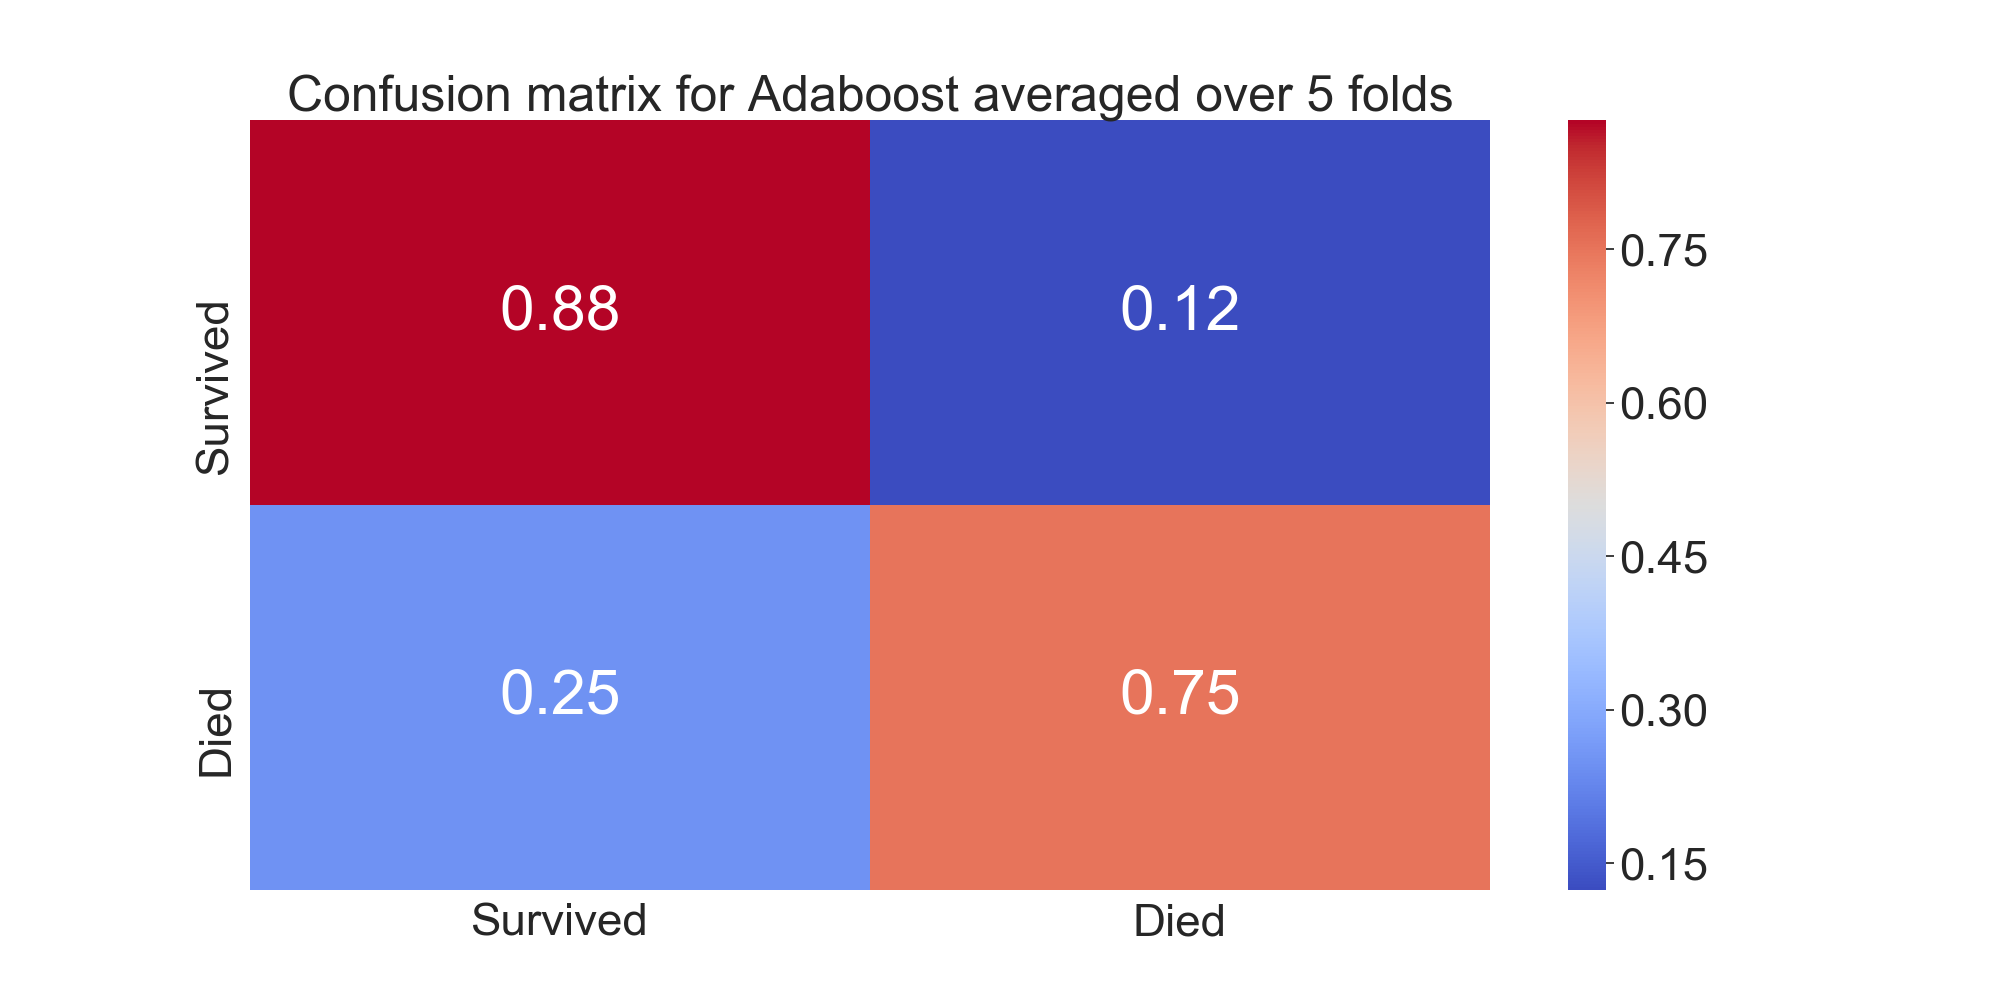
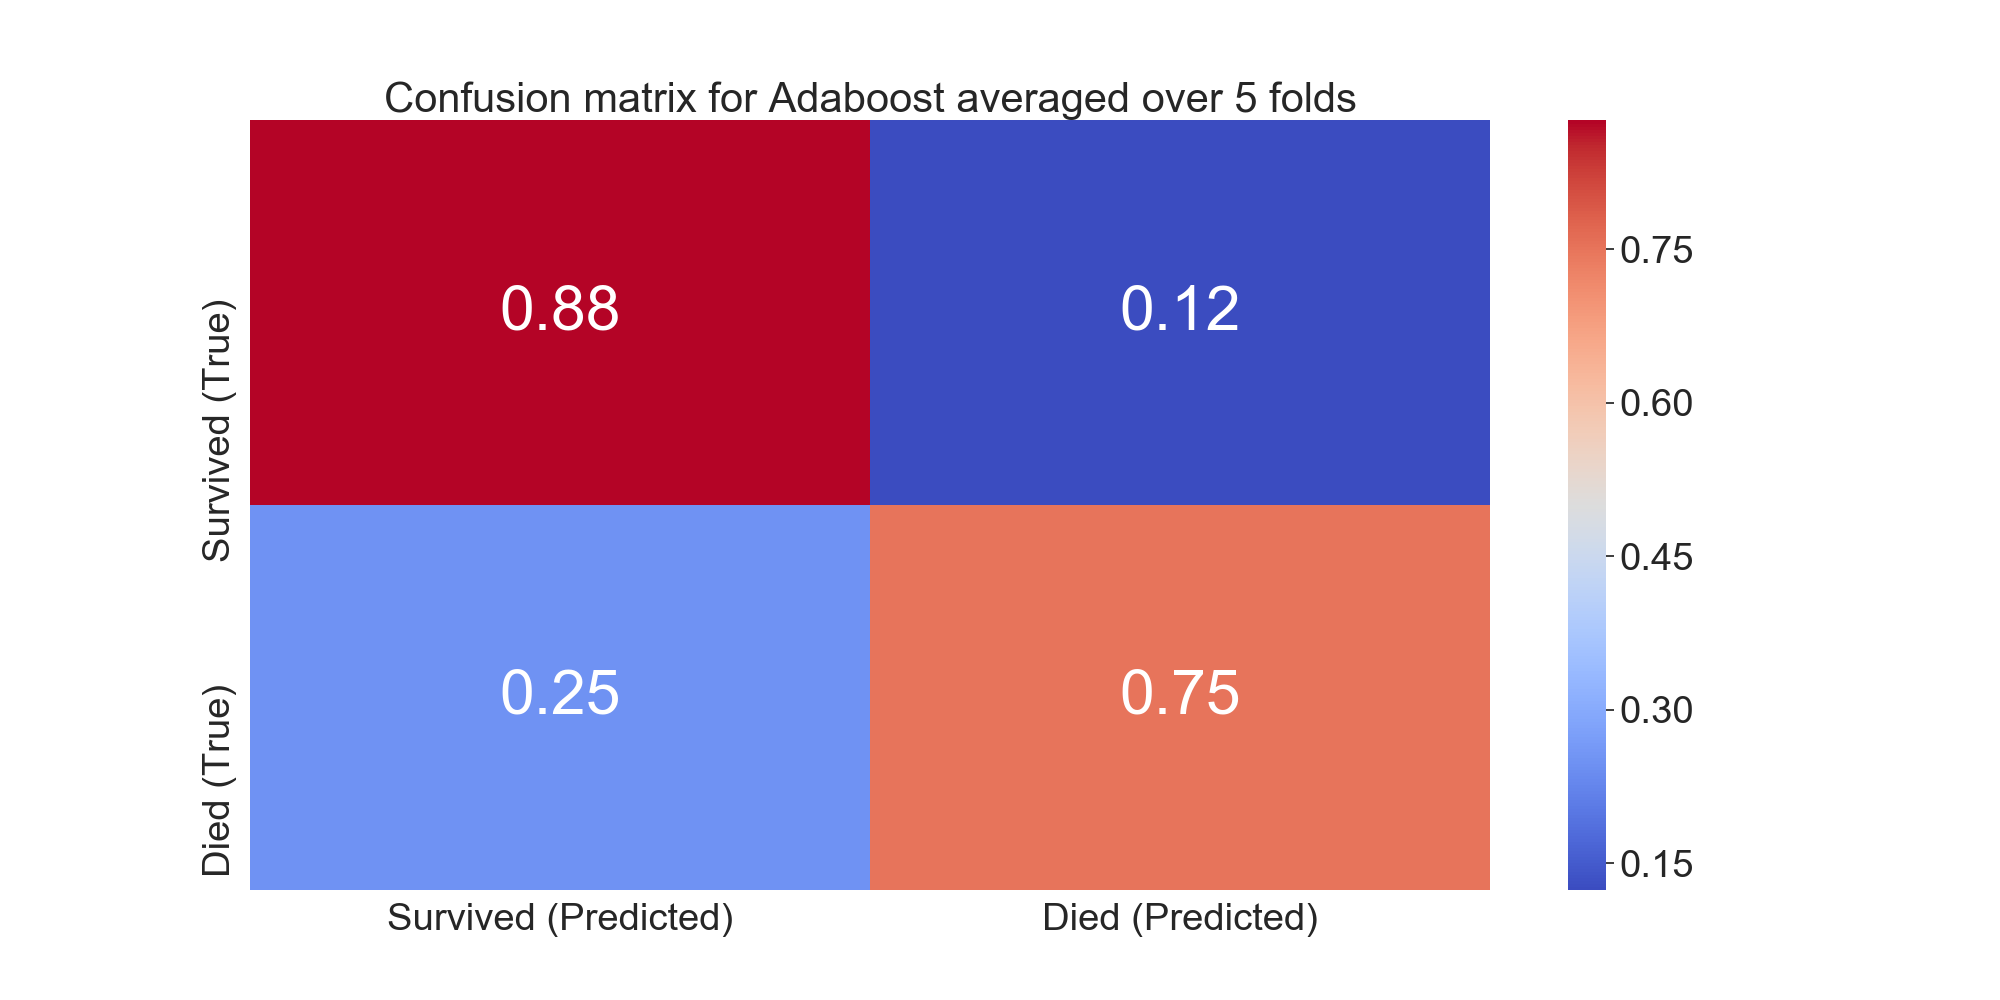
Changed axis description

diff --git a/random_forest_application.py b/random_forest_application.py
@@ -89,9 +89,9 @@ with open("logs/random_forest_results.log", "w") as logFile:
           file=logFile)
 
 # Plot confusion matrix
-df_cm = pd.DataFrame(confMatrix, ["Survived", "Died"], ["Survived", "Died"])
+df_cm = pd.DataFrame(confMatrix, ["Survived (True)", "Died (True)"], ["Survived (Predicted)", "Died (Predicted)"])
 print(confMatrix)
-sn.set(font_scale=3) # for label size
+sn.set(font_scale=2.5) # for label size
 ax = sn.heatmap(df_cm, cmap='coolwarm', annot=True, annot_kws={"size": 45}) # font size
 bottom, top = ax.get_ylim()
 ax.set_ylim(bottom + 0.5, top - 0.5)

diff --git a/gradient_boost_application.py b/gradient_boost_application.py
@@ -81,9 +81,9 @@ with open("logs/gradient_boosting.log", "w") as logFile:
           file=logFile)
 
 # Plot confusion matrix
-df_cm = pd.DataFrame(confMatrix, ["Survived", "Died"], ["Survived", "Died"])
+df_cm = pd.DataFrame(confMatrix, ["Survived (True)", "Died (True)"], ["Survived (Predicted)", "Died (Predicted)"])
 print(confMatrix)
-sn.set(font_scale=3) # for label size
+sn.set(font_scale=2.5) # for label size
 ax = sn.heatmap(df_cm, cmap='coolwarm', annot=True, annot_kws={"size": 45}) # font size
 bottom, top = ax.get_ylim()
 ax.set_ylim(bottom + 0.5, top - 0.5)

diff --git a/adaboost_application.py b/adaboost_application.py
@@ -76,9 +76,9 @@ with open("logs/adaboost_results.log", "w") as logFile:
           file=logFile)
 
 # Plot confusion matrix
-df_cm = pd.DataFrame(confMatrix, ["Survived", "Died"], ["Survived", "Died"])
+df_cm = pd.DataFrame(confMatrix, ["Survived (True)", "Died (True)"], ["Survived (Predicted)", "Died (Predicted)"])
 print(confMatrix)
-sn.set(font_scale=3) # for label size
+sn.set(font_scale=2.5) # for label size
 ax = sn.heatmap(df_cm, cmap='coolwarm', annot=True, annot_kws={"size": 45}) # font size
 bottom, top = ax.get_ylim()
 ax.set_ylim(bottom + 0.5, top - 0.5)

diff --git a/simulation.py b/simulation.py
@@ -82,7 +82,7 @@ class MonteCarloSimulation():
 
     def bvplot(self, title="Bias-variance decomposition for different sample sizes", filePath="", logScale=False):
         ax = plt.subplot(111)
-        for name, result in self.bvresults.items():
+        for _, result in self.bvresults.items():
             for pbv_key in result.keys():
                 ax.plot(self.sampleSizes, pbv_key, data=result)
         if logScale:
